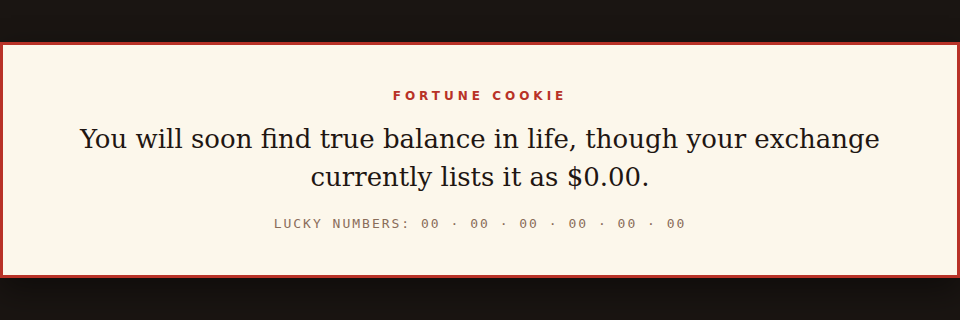
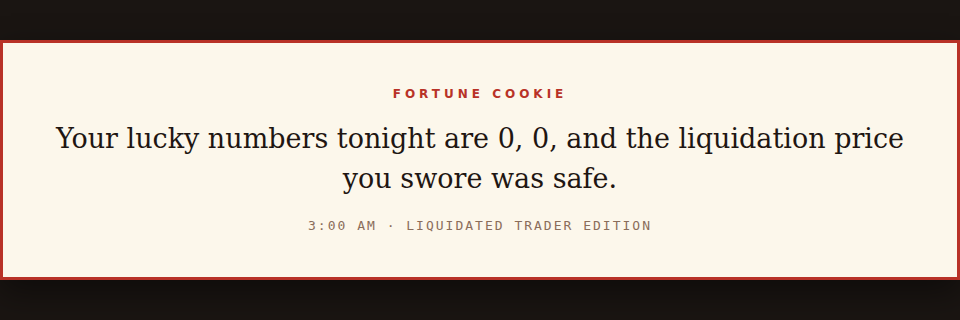
Refine fortune to lucky-numbers liquidation punchline

diff --git a/main.ts b/main.ts
@@ -1,7 +1,7 @@
 import { mkdirSync, writeFileSync } from "node:fs";
 
 const FORTUNE =
-  "You will soon find true balance in life, though your exchange currently lists it as $0.00.";
+  "Your lucky numbers tonight are 0, 0, and the liquidation price you swore was safe.";
 
 mkdirSync("/output", { recursive: true });
 writeFileSync("/output/entry.txt", `${FORTUNE}\n`, "utf8");
